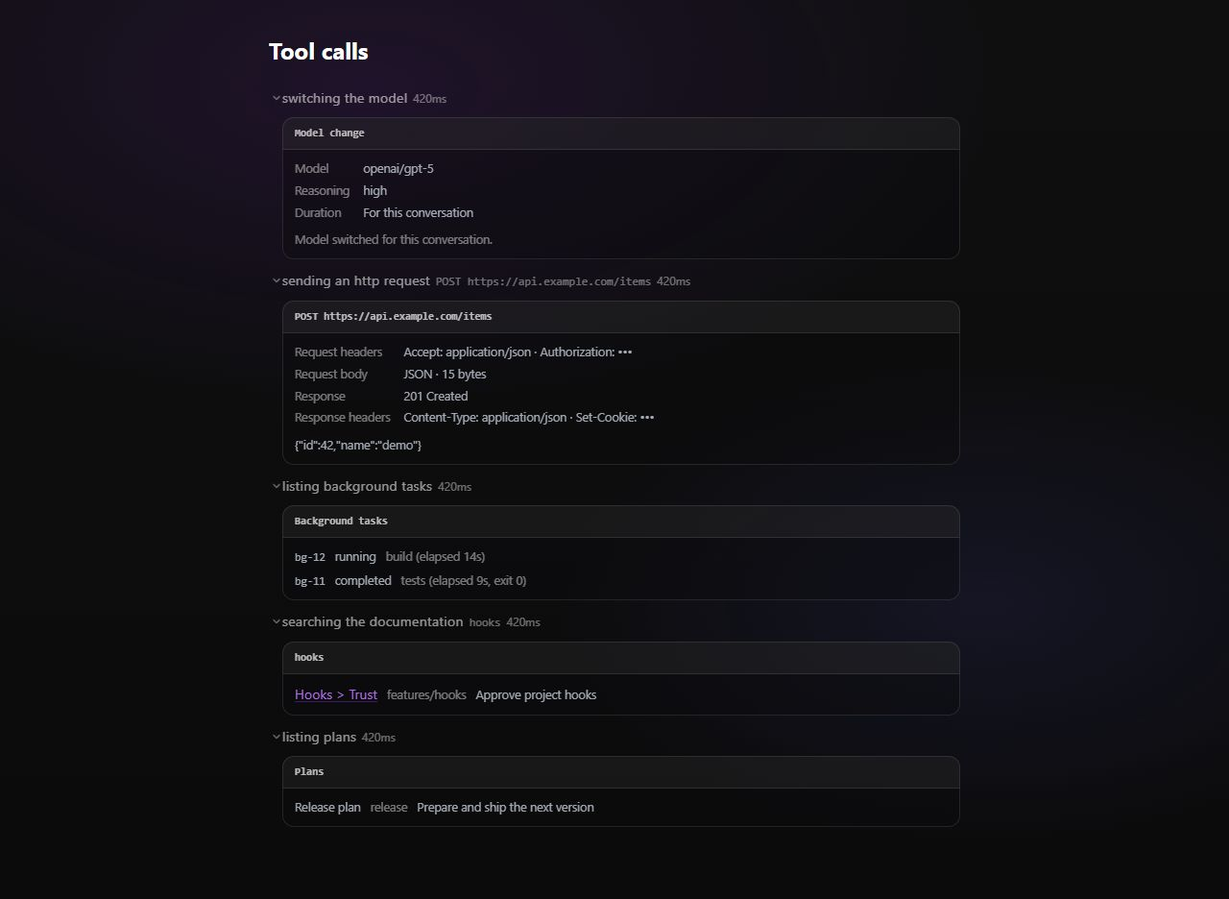
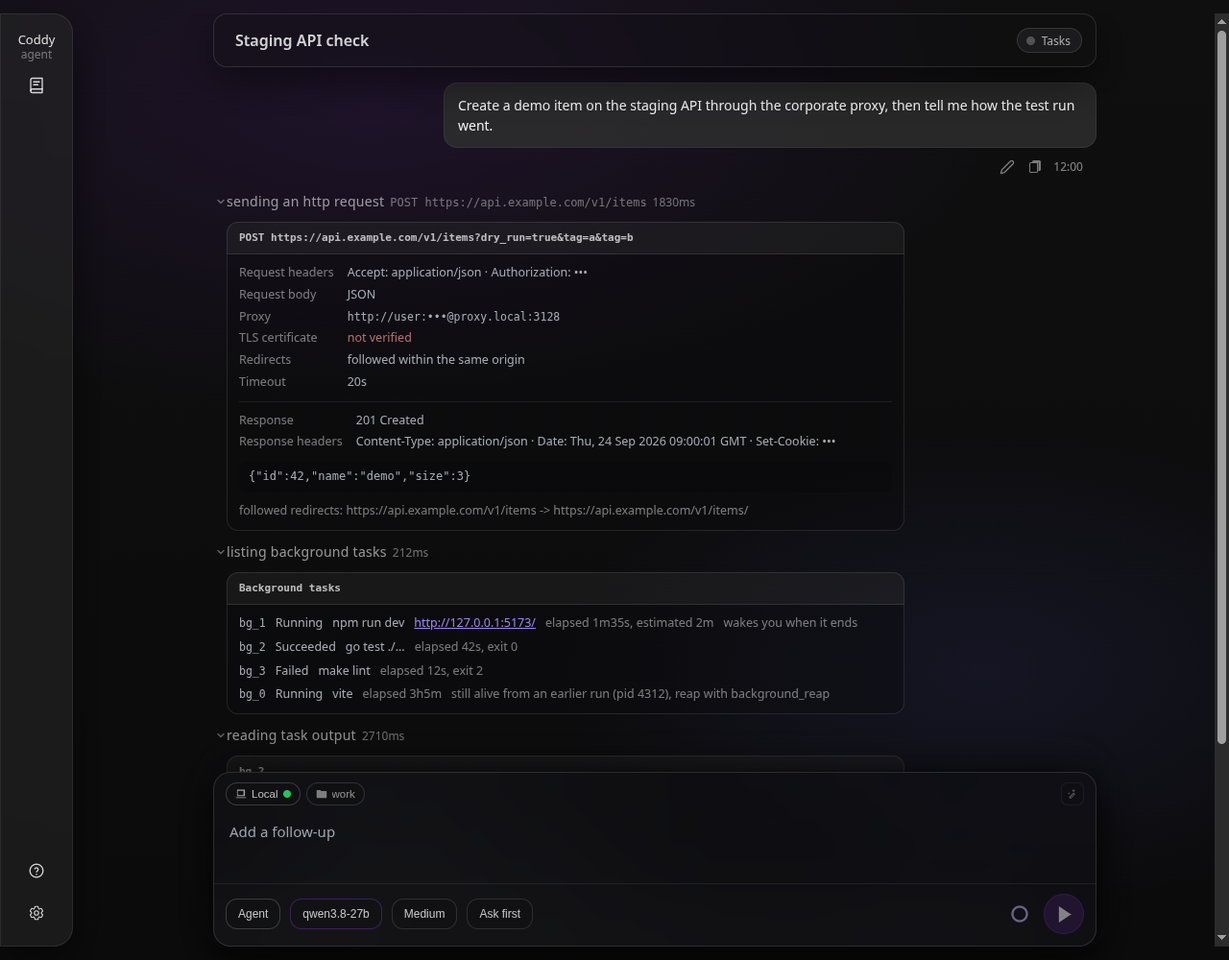
docs(ui): structured tool cards and MCP calls, shot from the running app
DESIGN.md states the contract of the structured card (the parsers held to
the Go formats, monospace for returned text, the rule between the request
and the answer, the capped body, the raw fallback) and the reading of each
tool and of an MCP answer, plus why the phone viewport cap skips a static
viewport. docs/surfaces/web-ui.md describes the cards; docs/features/mcp.md
says how an MCP call reads in the transcript.

The screenshots of the pull request came from a page that rendered the
components on their own, with results no tool writes. They are replaced by
captures of coddy serve and the SPA over sessions whose calls carry the
exact output of the Go tools: an http request with the background task
cards, the documentation and session filing cards, MCP calls, and the same
at 390px.

diff --git a/DESIGN.md b/DESIGN.md
@@ -487,7 +487,7 @@ Repo links appear as plain text links (**`GitHub | API docs`**) in a fixed foote
 
 Captured via SSE (**`tool_call`**, **`tool_call_update`**). Rendered like **thinking** and **memory**: a **`thinking-row`** foldout with **chevron**, **tool name**, and **duration** (**`thinking-dur`** in the summary row alongside the label).
 
-The expanded body uses the same tool-specific visual preview as the permission gate, followed by a separate **Result** panel when the tool returned output. It never repeats the approval actions. Most results stay raw monospace text. Known document and structured-result tools render their content in their own cards: `load_skill`, web search and fetch, the scheduler, `switch_model`, `http_request`, `background_*`, `preview_server`, `coddy_docs_search`, and `plan_list` / `plan_read` / `plan_write`. Terminal structured cards that fully express their result suppress redundant boilerplate: completed todo updates keep their saved plan snapshot, and a completed **`plan_exit`** card presents a theme-aware **Plan mode → Agent mode** transition with a semantic-success checkmark and the localized completion message instead of the raw `switched session to agent mode` string.
+The expanded body uses the same tool-specific visual preview as the permission gate, followed by a separate **Result** panel when the tool returned output. It never repeats the approval actions. Most results stay raw monospace text. Known document and structured-result tools render their content in their own cards: `load_skill`, web search and fetch, the scheduler, and the structured cards below (every other built-in tool that answers in a known shape, and every tool of an MCP server). Terminal structured cards that fully express their result suppress redundant boilerplate: completed todo updates keep their saved plan snapshot, and a completed **`plan_exit`** card presents a theme-aware **Plan mode → Agent mode** transition with a semantic-success checkmark and the localized completion message instead of the raw `switched session to agent mode` string.
 
 **The row names an action, not a function.** A tool id is translated through the **`tool.name.*`** dictionary entries (**`toolDisplayName`** in **`messages/toolDisplayName.ts`**): the English row reads **`running a command`** and the Russian one **`выполняю команду`**, both lowercase, both in the voice of the agent doing the work. An id with no entry - an MCP server's own tools - keeps its raw spelling rather than being flattened into something generic. **`read`** serves files and directories from one tool, so the directory wording (**`browsing a directory`** / **`просматриваю директорию`**) is used only when the arguments prove it: **`recursive`**, **`show_hidden`**, or a path ending in a separator. Beside the label, **`.tool-summary-target`** names the one thing the call acts on, through **`toolCallTargetText`**, and this row is the one place that names it - the live status line under the transcript never does. A **path** is spelt against the directory the work is happening in (**`relativeToolTarget`** in **`chat/toolTargetPath.ts`**, gated on **`toolCallTargetIsPath`**) whenever that is shorter. The roots are the session's own directory followed by the **worktrees** of its workspace (**`pathRoots`**, built in **`App.tsx`** from **`currentSessionCwd`** and **`workspaceCtx.worktrees`**), and the **deepest** root holding the file wins: work inside a worktree reads against **that worktree**, because the path to it is what every row of that work repeats. A command, a pattern, a url or a name is never rewritten, and the **`title`** attribute and the expanded card keep the path the call was given. Label, target and duration form one non-wrapping group (**`.thinking-head`**) so the row stays a single line: the target is the item that shrinks, clipped with an ellipsis and carrying the full value in its **`title`**. A backgrounded **`run_command`** says so in the label itself (**`running a command in the background`** / **`выполняю команду в фоне`**, key **`tool.name.run_command_background`**, chosen from **`background: true`** in complete arguments - a payload still streaming in must not rename the row halfway) and the duration slot carries the task's clock instead of the call's meaningless **`0ms`** (see **Background task on a transcript row**).
 
@@ -503,6 +503,15 @@ The expanded body uses the same tool-specific visual preview as the permission g
 
 **A scheduler call is read as what happened to which job.** The **`coddy_scheduler_*`** tools take a **`job_id`** and answer with a line of JSON, and the row printed both as they were - **`{"job_id": "ai-news-digest"}`** over **`{"job_id":"ai-news-digest","paused":false}`**. They render **`SchedulerToolCard`** (**`messages/SchedulerToolCard.tsx`**, model in **`chat/schedulerToolDisplay.ts`**) instead of the argument preview and the result panel: the preview bar with the plan rows' status mark, the job id (**`old → new`** for a rename) and, as its meta, **what happened** - **`resumed`** / **`снято с паузы`**, **`run started`** / **`запуск принят`**, **`was not running`** for a Stop of an idle job, **`created`**, **`updated`**, **`deleted`**, **`paused`**, **`replaced`**. A create, replace or patch lists under the bar the fields it set; **`job_get`** lists the job - description, the cron with its reading (**`0 8 * * * · At 08:00, every day`**), state, next run (UTC), mode, model, folder - and its instruction as Markdown in an inset panel; **`jobs_list`** is one row per job (id, description, schedule, state) with the count as meta; **`job_runs`** one row per run (local start, status, duration). The reading tools fetch the whole answer when the row opens, as a search does. The row names the job beside the label (**`toolCallTargetText`** reads **`job_id`** for every scheduler tool). A failed call keeps its error as raw text. **Every scheduler tool has a **`tool.name.*`** entry in every dictionary** - **`coddy_scheduler_job_resume`** shipped without one and the row read the raw id; **`TestEverySchedulerToolIsNamedInTheWebUI`** (**`external/scheduler/tools/names_ui_test.go`**) now holds the registry to the dictionaries.
 
+**A structured card reads the tool's own answer.** **`switch_model`**, **`http_request`**, the **`background_*`** tools, **`preview_server`**, **`coddy_docs_search`** / **`coddy_docs_read`**, **`plan_list`** / **`plan_read`** / **`plan_write`**, **`session_describe`**, the **`config_*`** tools, **`keep_result`**, **`compact_context`**, the **`coddy_memory_*`** tools and every tool an MCP server serves (**`server__tool`**) render **`StructuredToolCard`** (**`messages/StructuredToolCard.tsx`**) instead of the argument preview and the raw result panel. The Go tools write their answers for the model; **`chat/structuredToolDisplay.ts`** parses that text into small views, and its tests hold each parser to the exact text the Go formatter produces - a card tested on a format no tool writes passes and then prints raw text in every real session. Anything a parser does not recognise is shown as the text it is, inside the same card, so a change of format on either side loses nothing. The card is the scheduler card's frame: the bar (**`.permission-preview-bar`**) names what the call is about, the body (**`.scheduler-tool-body`**) holds labelled fields (**`.scheduler-tool-fields`**) and rows (**`.scheduler-tool-rows`**). Text the tool returned as it was - a log, a response body, a nested JSON value - is **`.structured-tool-output`**, the monospace voice of the raw panel, never the card's prose font; Markdown it returned (a plan, a documentation section, a memory note) is **`.structured-tool-document`**, an inset in the prose font. What was asked and what came back are set apart by a rule (**`.structured-tool-answer`**) because both can be the same list of fields. A body with nothing in it is not drawn, so a call still waiting for its answer is the bar alone. A **failed** or **cancelled** call, and one whose arguments do not parse, keep the generic panels, where the error reads as written. A truncated answer caps the card's **body** (**`bodyClassName`** / **`bodyRef`** carry the **`tool-result-viewport`** classes), so the bar stays in view while the body scrolls.
+
+- **`http_request`** - the bar is the method and the address the request really fetches: the **`query`** object appended the way the tool appends it (names sorted), the password of a userinfo hidden. Under it: the rationale, the request headers with credential-bearing ones (**`authorization`**, **`cookie`**, **`token`**, **`secret`**, **`password`**, **`api-key`**) shown as **`•••`** and an emptied one as removed, the kind of body (with its path, its form parts or its byte count where the arguments say so), the proxy with its credentials hidden, **not verified** in the failure colour (**`.structured-tool-warning`**) when **`verify_tls`** is false, followed redirects, the timeout and **`output_file`**. Everything that changes where the request goes or what it trusts is on the card: the generic preview showed all of it as JSON, and a card that drops a skipped certificate check is a card that hides it. The response - status, headers masked the same way, the body in monospace, the tool's bracketed notes (**`followed redirects: …`**, **`body: saved …`**) as muted lines - sits under the rule.
+- **`switch_model`** - the model, the reasoning level and how long it applies, read from the answer (what took effect), not from the arguments (what was asked); the sentence written for the model is not repeated.
+- **Background tasks** - one row per task: id, the status through the Tasks drawer's own labels (**`taskStatusLabel`**, so it is translated), label, address, the elapsed / estimate / exit detail and the pool's note, muted. **`background_output`** / **`background_wait`** add the output in monospace and say when it is still running or its start was dropped; **`background_reap`** lists what it killed by pid. **`preview_server`** is the address as a link (http and https only), the task and when the server stops; the lines telling the model to invite the user are not shown.
+- **Documentation** - a search is one row per hit, the title a link into the reader (**`docsHrefFromCoddyLink`**, never Markdown built from the title: a title is text); a read is the section as a document, a link to it in the reader and its line range, with **Continues at line N** when the tool paged it.
+- **Plans, session filing, configuration, memory** - a plan read shows its name and overview above the body (a preview cut inside a long frontmatter stays monospace text until **More…**), a plan list one row per plan with its update time; **`session_describe`** the title, the tags as chips and what changed; a **`config_*`** answer its JSON as fields, with the values the server redacted, in place of the arguments it repeats; memory notes as documents, a memory search one row per hit.
+- **MCP** - the bar is the server, muted, and the tool as its server spells it (**`.structured-tool-mcp-server`**, **`.structured-tool-mcp-tool`**). The arguments are fields: text as text, numbers and booleans in monospace, a short list of scalars as chips, anything nested as indented JSON. The answer is read by its shape (**`resultNode`**): a JSON object as the same fields, other JSON indented, text with Markdown's own structure (a heading, a fence, a list - **`looksLikeMarkdown`**) as a document, anything else as monospace text. MCP servers answer the model in Markdown or JSON far more often than in plain text, and neither reads as its source.
+
 **`question` is the record of an offer.** The row names the act (**`asking`** / **`спрашиваю`**, key **`messages.toolQuestionLabel`**) and carries no duration - nothing was running while the reader read it. Its body is the offer as the model made it: every question, each option behind the letter it was offered under (**`.question-tool-offer-row`**, the letter in the same **`.question-prompt-bubble`** the live card uses), and the free-answer slot when **`custom`** was set - carrying the words the reader typed into it, so an answer is read in the slot it was given in rather than named twice. The letters the reader took are marked in the accent, each answer claiming one option. A line closes the block only when the letters cannot say it: nothing answered yet, or an answer with no slot of its own. This is the **only** place the offer survives - the answered card below the row keeps just the question and the answer - so an option the reader did not take is readable here and nowhere else.
 
 **Copy controls are icons.** Every control that used to spell out **Copy** - the markdown code-block button, the tool preview and permission preview controls - is the clipboard glyph on the shared **`.md-copy`** chrome, with the word it replaced kept as the native **`title`** tooltip and the accessible name.
@@ -514,9 +523,9 @@ The expanded body uses the same tool-specific visual preview as the permission g
 
 Implementation lives in **`external/ui/src/ui/messages/ToolCallMessage.tsx`**.
 
-- **Layout** - Outer **`thinking-row coddy-tool-call-row`**; **`details`** uses **`thinking-details coddy-tool-details`**. **`summary.thinking-summary`** with **`thinking-left`** ( **`aria-label="Tool summary"`** ): **`thinking-chevron`**, then the non-wrapping **`thinking-head`** holding **`thinking-label`** (the catalogued action name, **`...`** suffix while **`pending`** / **`in_progress`** ), the optional **`tool-summary-target`**, and the **`tool-failed-marker`** a failed call adds, and **`thinking-dur`** (**finished** durations from **`meta.json`**, **live elapsed** while in flight when **`startedAtMs`** is set, placeholder **`-`** when unknown). Transcript stacking uses **`messages-inner` `gap`** like other **`thinking-row`** blocks (avoid tool-only asymmetric margins). Expanded **`thinking-body coddy-tool-call-body`** is transparent and contains the shared **`PermissionToolPreview`** without nested copy or approval actions, or a dedicated structured card for known tools. A generic preview drops its header bar when the arguments name nothing for it; `background_output` instead names the task in its structured header. Generic returned output follows in **`tool-call-result-card`** as a bare **`pre.tool-result-pre`** body, joined to the preview above it without a header or a divider.
+- **Layout** - Outer **`thinking-row coddy-tool-call-row`**; **`details`** uses **`thinking-details coddy-tool-details`**. **`summary.thinking-summary`** with **`thinking-left`** ( **`aria-label="Tool summary"`** ): **`thinking-chevron`**, then the non-wrapping **`thinking-head`** holding **`thinking-label`** (the catalogued action name, **`...`** suffix while **`pending`** / **`in_progress`** ), the optional **`tool-summary-target`**, and the **`tool-failed-marker`** a failed call adds, and **`thinking-dur`** (**finished** durations from **`meta.json`**, **live elapsed** while in flight when **`startedAtMs`** is set, placeholder **`-`** when unknown). Transcript stacking uses **`messages-inner` `gap`** like other **`thinking-row`** blocks (avoid tool-only asymmetric margins). Expanded **`thinking-body coddy-tool-call-body`** is transparent and contains the shared **`PermissionToolPreview`** without nested copy or approval actions, or the **`StructuredToolCard`** of a tool that has one (see **A structured card reads the tool's own answer**). A generic preview drops its header bar when the arguments name nothing for it. Generic returned output follows in **`tool-call-result-card`** as a bare **`pre.tool-result-pre`** body, joined to the preview above it without a header or a divider.
 - **Duration format** - Every step duration on a transcript row - a tool call, a reasoning block, a memory pass, live or finished - goes through one formatter, **`formatStepDuration`** (**`messages/formatStepDuration.ts`**): **milliseconds only below three seconds** (**`846ms`**, **`2999ms`**), whole **seconds** up to a minute (**`32s`**), **minutes and two-digit seconds** up to an hour (**`1m 42s`**), **hours and two-digit minutes** beyond (**`1h 05m`**). A count like **`32749ms`** asks the reader to divide by a thousand and **`1.7m`** to multiply a fraction by sixty; neither is a reading. The live status line and the background task clock count whole seconds of their own and keep their formatters.
-- **Viewport** - Truncated results ( **`resultWasTruncated`** from list / SSE) add **`tool-result-viewport tool-result-viewport--tall`**, clipped with **`tool-result-viewport--clip`** (capped at ~20 lines, **overflow-y** hidden) or scrollable with **`tool-result-viewport--scroll`** after **More…**. Large **`write`** / **`write_file`** code previews and **`apply_patch`** / **`edit`** diffs use the shared measured **`permission-preview-viewport`** cap (**190px**, **170px** on phones): the toggle appears only when the rendered body overflows, expansion scrolls inside the tool card, and **Less** returns the viewport to the top. Short results and previews follow content naturally without a fake tall box or toggle row.
+- **Viewport** - Truncated results ( **`resultWasTruncated`** from list / SSE) add **`tool-result-viewport tool-result-viewport--tall`**, clipped with **`tool-result-viewport--clip`** (capped at ~20 lines, **overflow-y** hidden) or scrollable with **`tool-result-viewport--scroll`** after **More…**. Large **`write`** / **`write_file`** code previews and **`apply_patch`** / **`edit`** diffs use the shared measured **`permission-preview-viewport`** cap (**190px**, **170px** on phones): the toggle appears only when the rendered body overflows, expansion scrolls inside the tool card, and **Less** returns the viewport to the top. Every other preview - a command block, a short argument card - is **`permission-preview-viewport--static`**: it has no toggle, so it is never capped, on a phone either. The phone rule is written **`.permission-preview-viewport:not(.permission-preview-viewport--static)`** because it comes after the modifier at the same specificity; written plainly it capped a long wrapped command at 170px, and with the overflow visible the command spilled over the output under it (**`permissionPreviewViewportCss.test.ts`**). Short results and previews follow content naturally without a fake tall box or toggle row.
 - **Controls** - Result **More…** (**`data-testid="tool-result-more"`**) / **Less** (**`data-testid="tool-result-less"`**) and preview overflow controls reuse the shared left-aligned **`tool-overflow-toggle`** tab button, attached flush to the panel's bottom border. Phone layouts increase the button's minimum height to **36px** for a more comfortable touch target.
 - **Full body** - The SPA obtains saved full strings only via **GET `/coddy/sessions/{sessionId}/tool-calls/{toolCallId}`**. **`App.tsx`** wires **`onFetchToolCallFull`** to that endpoint and merges JSON **`result`** into **`fullResultText`** plus full **`args`** into **`argsText`**. Restored **`apply_patch`**, **`write`** / **`write_file`**, and **`edit`** cards auto-fetch in any status when the 200-character list **`argsPreview`** is incomplete JSON, so their structured previews match live SSE cards after reload instead of rendering an empty **`+0 −0`** header. Reconciles via **`loadMessages`** keep already-complete args (**`pickRicherToolArgs`** in **`toolCallArgs.ts`**) instead of re-truncating them, and complete args re-arm the one-shot fetch so a later truncation recovers again. The preview overflow toggle re-measures on the enclosing **`details`** **`toggle`** event (collapsed foldouts measure zero while hidden).
 

diff --git a/docs/surfaces/web-ui.md b/docs/surfaces/web-ui.md
@@ -697,7 +697,7 @@ The chat transcript renders a flat list of UI message blocks. Each block has a `
   - While **`pending`** or **`in_progress`**, the summary label uses a **`...`** suffix (for example **`reading a file...`**). **`startedAtMs`** drives a live duration until the tool finishes.
   - When a structured preview and a returned body are both present, they touch and share the outer corners as one continuous execution card; there is no gap, duplicate border, header or divider between them. The body carries no **Result** label: it is the only thing under the call.
   - A **failed** call says so on its summary row - **`.tool-failed-marker`** (**`data-testid="tool-failed-marker"`**) renders **(failed)** / **(ошибка)** in the theme's deletion red between the target and the duration - so the failure reads while the row is still collapsed, instead of being a coloured dot inside the expanded body.
-  - Details reuse the permission card's tool-specific preview without approval actions. **read**, **grep**, **glob**, and **print_tree** receive compact structured argument previews; unknown tools keep a styled monospace fallback. **run_command** / **ssh_run_command** put the command in an inset block inside the card behind a **`$`** prompt, under a header that names the server's own interpreter for a local call (**`shell`** from **`GET /coddy/workspace/context`**, kept in **`chat/hostShell.ts`**; the generic label when the server reports none, and for the remote **ssh_run_command**), with the copy control on that same line (**`data-testid="tool-preview-copy"`** in the transcript, **`permission-prompt-copy`** on a permission card) rather than in the card header. A call that takes **no arguments** has no input to preview: instead of an empty **`{}`** body it renders the shared bar alone (**`data-testid="tool-action-preview"`**) - the action label, the todo status mark, and **Done** / **Running…** / **Failed** / **Cancelled** - so it reads as a sibling of the plan cards. **load_skill** shows no argument card at all, because the summary row already names the skill. Large **`write`** / **`write_file`** code previews and **`apply_patch`** / **`edit`** diffs use the shared measured viewport: **More…** appears only for real overflow, preserves the card height while enabling internal scrolling, and **Less** clips the body again and returns it to the top. Generic returned bodies remain plain text. Completed **`load_skill`** calls render Markdown; the supported structured tools render dedicated cards described below. Failed calls keep the raw monospace panel. If truncated (19 content lines plus **`...`**), apply the capped result viewport (~20 lines) with **overflow-y** hidden until **More…**; **More…** (**`data-testid="tool-result-more"`**) performs **GET `/coddy/sessions/{id}/tool-calls/{toolCallId}`**, then enables **overflow-y auto** at the same height and becomes **Less** (**`data-testid="tool-result-less"`**); **Less** restores the clipped preview without a second GET while **fullResultText** stays in memory. Both preview and result controls use the shared left-aligned **`tool-overflow-toggle`** tab button.
+  - Details reuse the permission card's tool-specific preview without approval actions. **read**, **grep**, **glob**, and **print_tree** receive compact structured argument previews; unknown tools keep a styled monospace fallback. **run_command** / **ssh_run_command** put the command in an inset block inside the card behind a **`$`** prompt, under a header that names the server's own interpreter for a local call (**`shell`** from **`GET /coddy/workspace/context`**, kept in **`chat/hostShell.ts`**; the generic label when the server reports none, and for the remote **ssh_run_command**), with the copy control on that same line (**`data-testid="tool-preview-copy"`** in the transcript, **`permission-prompt-copy`** on a permission card) rather than in the card header. A call that takes **no arguments** has no input to preview: instead of an empty **`{}`** body it renders the shared bar alone (**`data-testid="tool-action-preview"`**) - the action label, the todo status mark, and **Done** / **Running…** / **Failed** / **Cancelled** - so it reads as a sibling of the plan cards. **load_skill** shows no argument card at all, because the summary row already names the skill. Large **`write`** / **`write_file`** code previews and **`apply_patch`** / **`edit`** diffs use the shared measured viewport: **More…** appears only for real overflow, preserves the card height while enabling internal scrolling, and **Less** clips the body again and returns it to the top. A command block and every other preview without that toggle is never capped, on a phone either, so a long command wraps above its output instead of spilling over it. Generic returned bodies remain plain text. Completed **`load_skill`** calls render Markdown; the supported structured tools render dedicated cards described below. Failed calls keep the raw monospace panel. If truncated (19 content lines plus **`...`**), apply the capped result viewport (~20 lines) with **overflow-y** hidden until **More…**; **More…** (**`data-testid="tool-result-more"`**) performs **GET `/coddy/sessions/{id}/tool-calls/{toolCallId}`**, then enables **overflow-y auto** at the same height and becomes **Less** (**`data-testid="tool-result-less"`**); **Less** restores the clipped preview without a second GET while **fullResultText** stays in memory. Both preview and result controls use the shared left-aligned **`tool-overflow-toggle`** tab button.
 
 ## Live status next to the typing dots
 
@@ -730,23 +730,32 @@ For the whole of a running turn, streaming text included, the typing dots carry 
 
 The scheduler tools (`coddy_scheduler_*`) have a card of their own instead of their JSON: the bar names the job and what happened to it (*resumed*, *run started*, *was not running*, *created*, *updated*, *deleted*), a job read or created is shown as its fields - description, schedule with its human reading, state, next run, mode, model, folder - with the instruction rendered as Markdown, the job list as one row per job and the runs of a job as one row per run with its status and duration.
 
-`switch_model`, `http_request`, the `background_*` tools, `preview_server`, `coddy_docs_search`, and `plan_list` / `plan_read` / `plan_write` use structured transcript cards (`StructuredToolCard.tsx`). The model card names the model, reasoning level and turn or session scope. The HTTP card separates the request from the response status, headers and body, masking credential-bearing headers. Background task rows show task ids, states and output; the preview server exposes its address as a link. Documentation hits show their references and open through the documentation reader. Plan lists show one row per plan, plan reads render the Markdown body without YAML frontmatter, and plan writes show the saved plan's identity. Failed calls and incomplete arguments retain the existing raw fallback. Truncated structured results keep the shared More / Less controls and capped viewport.
+Every other built-in tool that answers in a known shape, and every tool of an MCP server, has a card too (`StructuredToolCard.tsx`, the parsing in `chat/structuredToolDisplay.ts`), instead of its JSON arguments over the text it wrote for the model:
 
-![Structured tool calls in the dark transcript](../assets/web-ui/tool-structured-cards-dark-1280.png)
+- `http_request` names the address it really fetched, query included, and everything that changes where it went or what it trusted: headers with credential-bearing ones masked, the kind of body, the proxy with its credentials hidden, a skipped certificate check in the failure colour, followed redirects, the timeout, the output file and the rationale. The response - status, masked headers, the body in monospace, the tool's notes - sits under a rule;
+- `switch_model` shows the model, the reasoning level and how long it applies, as the tool reported them after the switch;
+- the `background_*` tools show one row per task with its status in the Tasks drawer's words, and `background_output` / `background_wait` the output in monospace; `preview_server` is its address as a link, the task and when it stops;
+- `coddy_docs_search` links each hit into the documentation reader, and `coddy_docs_read` renders the section it read with a link to it and its line range;
+- `plan_list` / `plan_read` / `plan_write` show the plans, a plan's name and overview over its body, and what was saved; `session_describe` the title, the tags and what changed; the `config_*` tools their answer as fields, with the values the server redacted; the `coddy_memory_*` tools notes as documents and search hits as rows; `keep_result` and `compact_context` their arguments as fields;
+- an MCP server's call shows its server and tool in the bar, its arguments as fields, and its answer by its shape: a JSON object as fields, other JSON indented, Markdown as a document, anything else as monospace text.
 
-*Model, HTTP, background task, documentation search and plan list calls in the transcript*
+A failed or cancelled call, and one whose arguments do not parse, keeps the raw panels. A truncated answer caps the card's body under the same **More…** / **Less** controls, so the bar stays in view.
 
-![Background output, preview server and plan document cards in the dark transcript](../assets/web-ui/tool-structured-details-dark-1280.png)
+![Structured cards in the dark transcript: an http request through a proxy, the background task list and a task's output](../assets/web-ui/tool-structured-cards-dark-1280.png)
 
-*Background output, preview server, plan read and plan write calls*
+*An http request, the background task list and a task's output*
 
-![Structured tool cards on a narrow screen](../assets/web-ui/tool-structured-cards-dark-390.png)
+![Documentation search and read cards and the session filing card](../assets/web-ui/tool-structured-documents-dark-1280.png)
 
-*Model, HTTP, background task list, documentation search and plan list at a 390px viewport width*
+*A documentation search, the section it read and the session's title and tags*
 
-![Background output, preview server and plan document cards on a narrow screen](../assets/web-ui/tool-structured-details-dark-390.png)
+![MCP calls in the transcript: arguments as fields, a JSON answer as fields under a rule, a Markdown answer as a document](../assets/web-ui/tool-mcp-cards-dark-1280.png)
 
-*Background output, preview server, plan read and plan write at the same narrow width*
+*MCP calls: the arguments as fields, a JSON answer under them, a Markdown answer below*
+
+![Structured cards on a narrow screen](../assets/web-ui/tool-structured-cards-dark-390.png)
+
+*The same cards at 390px: the bar wraps rather than clipping the address*
 
 ![Scheduler calls in the transcript: a job read as its fields, a resume and a run as their outcome](../assets/scheduler-tool-cards-dark-1280.png)
 
@@ -764,7 +773,7 @@ Authoritative behaviour matches **`DESIGN.md`** tool timeline plus this checklis
 | Summary | Same pattern as **thinking** (**`thinking-summary`**, **`thinking-left`**, **`thinking-chevron`**), with **`thinking-label`**, **`.tool-summary-target`**, the failure **`.tool-failed-marker`** and **`thinking-dur`** inside one non-wrapping **`.thinking-head`**; on a backgrounded **`run_command`** that duration is the task's clock (**`data-testid="tool-bgtask-elapsed-<id>"`**); **`aria-label="Tool summary"`** |
 | Label | **`toolDisplayName`** (**`messages/toolDisplayName.ts`**) over the **`tool.name.*`** dictionary entries; a **`server__tool`** name (**`mcp__`** prefix accepted) reads through **`tool.name.mcp`** as *calling {tool} on the MCP server {server}*, and any other unknown id falls through to itself. **`background: true`** on a **`run_command`** picks **`tool.name.run_command_background`** (*running a command in the background* / *выполняю команду в фоне*), read only from complete arguments |
 | Args | Shared **`PermissionToolPreview`** (no approval actions; the only copy control is the one inside a shell command block, **`data-testid="tool-preview-copy"`**); large **write** / **write_file**, **apply_patch**, and **edit** bodies keep measured **More…** (**`data-testid="tool-preview-more"`**) / **Less** (**`data-testid="tool-preview-less"`**) overflow controls |
-| Result | Generic output uses **`div.tool-call-result-card`**, **`aria-label="Tool result"`**, with inner **`pre.tool-result-pre`** and no header row; completed structured todo and **`plan_exit`** cards suppress redundant boilerplate results; **`load_skill`** renders Markdown, and supported tools use structured cards |
+| Result | Generic output uses **`div.tool-call-result-card`**, **`aria-label="Tool result"`**, with inner **`pre.tool-result-pre`** and no header row; completed structured todo and **`plan_exit`** cards suppress redundant boilerplate results; **`load_skill`** renders Markdown, and supported tools and MCP calls use **`StructuredToolCard`** (**`data-testid="structured-tool-card"`**) |
 | Markdown | Not used for tool **result** or **user** bubbles; **assistant** still uses Markdown per below |
 | List merge | **`App.tsx`** **`loadMessages`** merges **`GET /coddy/sessions/{id}/tool-calls`** rows into **`resultText`**, **`resultWasTruncated`**, timing |
 | Full text | First result **More…**, or automatic incomplete-args recovery for restored **`apply_patch`** / **`write`** / **`write_file`** / **`edit`** cards in any status - **`GET /coddy/sessions/{id}/tool-calls/{toolCallId}`**, using JSON **`result`** and **`args`** (same object includes **`meta`**). Transcript reconciles never replace complete args with the truncated 200-char **`argsPreview`** (**`pickRicherToolArgs`**), so live cards keep full previews across permission answers |

diff --git a/docs/assets/INDEX.md b/docs/assets/INDEX.md
@@ -29,7 +29,7 @@ Screenshots taken as evidence for a pull request do not belong here. Attach them
 Generated by `make docs`. "Used by" lists the files that reference the asset.
 
 <!-- docsgen:assets:start -->
-154 files, 37.9 MB in total.
+154 files, 38.9 MB in total.
 
 ### docs/assets
 
@@ -285,8 +285,8 @@ Generated by `make docs`. "Used by" lists the files that reference the asset.
 
 | File | Size | Used by |
 |------|------|---------|
-| `tool-structured-cards-dark-1280.png` | 52 KB | docs/surfaces/web-ui.md |
-| `tool-structured-cards-dark-390.png` | 40 KB | docs/surfaces/web-ui.md |
-| `tool-structured-details-dark-1280.png` | 36 KB | docs/surfaces/web-ui.md |
-| `tool-structured-details-dark-390.png` | 24 KB | docs/surfaces/web-ui.md |
+| `tool-mcp-cards-dark-1280.png` | 286 KB | docs/surfaces/web-ui.md |
+| `tool-structured-cards-dark-1280.png` | 329 KB | docs/surfaces/web-ui.md |
+| `tool-structured-cards-dark-390.png` | 223 KB | docs/surfaces/web-ui.md |
+| `tool-structured-documents-dark-1280.png` | 321 KB | docs/surfaces/web-ui.md |
 <!-- docsgen:assets:end -->

diff --git a/docs/features/mcp.md b/docs/features/mcp.md
@@ -146,6 +146,17 @@ Cursor-style JSON editor for mcp.json entries with a scope picker (global writes
 `~/.coddy/mcp.json`, local writes `./.coddy/mcp.json`). Toggles persist into the file that
 defines the server; `config.yaml` entries are toggle-only here and edited in Settings.
 
+## MCP calls in the transcript
+
+The web UI names an MCP call as an action on its server (*calling get_issue on the MCP
+server github*) and opens it as a card rather than as JSON: the bar names the server and the
+tool, the arguments are fields, and the answer is read by its shape - a JSON object as the
+same fields, other JSON indented, Markdown (a heading, a code fence, a list) as a document,
+anything else as monospace text. A failed call keeps its error as raw text. Only the text
+parts of an answer reach the transcript: Coddy passes the `text` content of a
+`tools/call` result to the model and drops images and embedded resources. See
+[Web UI](../surfaces/web-ui.md) for the card and a screenshot.
+
 ## Supported Transports
 
 ### stdio (supported)
